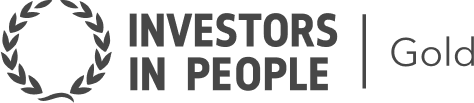
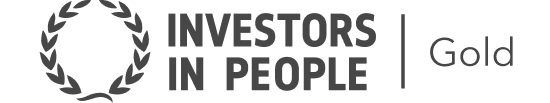
chore: top navigation added to partners nav, fixes in footer

diff --git a/src/features/components/templates/footer/description.tsx b/src/features/components/templates/footer/description.tsx
@@ -1,7 +1,9 @@
 import React from 'react'
-import { CustomLink } from '@deriv-com/components'
-import { Text, qtMerge } from '@deriv/quill-design'
+import { Text } from '@deriv/quill-design'
+import clsx from 'clsx'
 import { Localize } from 'components/localization'
+
+const sharedClasses = 'inline font-bold underline hover:text-typography-prominent'
 
 export const DescriptionContent = () => {
     return (
@@ -10,23 +12,20 @@ export const DescriptionContent = () => {
                 <Localize
                     translate_text="_t_Deriv (FX) Ltd is licensed by the Labuan Financial Services Authority <0>(licence)</0>. Deriv (BVI) Ltd is licensed by the British Virgin Islands Financial Services Commission <1>(licence)</1>. Deriv (V) Ltd is licensed by the Vanuatu Financial Services Commission <2>(licence)</2>. Deriv (SVG) LLC has a registered office at First Floor, SVG Teachers Credit Union Uptown Building, Corner of James and Middle Street, Kingstown P.O., St Vincent and the Grenadines. Deriv.com Limited is the holding company for the above subsidiaries with the registration number 71479 and the registered address is located at 2nd Floor, 1 Cornet Street, St Peter Port, Guernsey, GY1 1BZ._t_"
                     components={[
-                        <CustomLink
-                            size="sm"
-                            className={qtMerge('inline font-bold underline')}
+                        <a
+                            className={clsx(sharedClasses)}
                             href="/regulatory/Deriv_(FX)_Ltd.pdf"
                             key={0}
                             target="_blank"
                         />,
-                        <CustomLink
-                            size="sm"
-                            className={qtMerge('inline font-bold underline')}
+                        <a
+                            className={clsx(sharedClasses)}
                             href="/regulatory/Deriv_(BVI)_Ltd.pdf"
                             key={1}
                             target="_blank"
                         />,
-                        <CustomLink
-                            size="sm"
-                            className={qtMerge('inline font-bold underline')}
+                        <a
+                            className={clsx(sharedClasses)}
                             href="/regulatory/Deriv_(V)_Ltd.pdf"
                             key={2}
                             target="_blank"
@@ -38,25 +37,18 @@ export const DescriptionContent = () => {
                 <Localize
                     translate_text="_t_Please read our <0>Terms and conditions</0>, <1>Risk disclosure</1>, and <2>Secure and responsible trading</2> to fully understand the risks involved before using our services. The information on this website does not constitute investment advice._t_"
                     components={[
-                        <CustomLink
-                            size="sm"
-                            className={qtMerge('inline font-bold underline')}
+                        <a
+                            className={clsx(sharedClasses)}
                             href="/terms-and-conditions/#clients"
                             key={0}
                         />,
-                        <CustomLink
-                            size="sm"
-                            className={qtMerge('inline font-bold underline')}
+                        <a
+                            className={clsx(sharedClasses)}
                             href="/tnc/risk-disclosure.pdf"
                             key={1}
                             target="_blank"
                         />,
-                        <CustomLink
-                            size="sm"
-                            className={qtMerge('inline font-bold underline')}
-                            href="/responsible/"
-                            key={2}
-                        />,
+                        <a className={clsx(sharedClasses)} href="/responsible/" key={2} />,
                     ]}
                 />
             </Text>

diff --git a/src/features/components/templates/footer/download.tsx b/src/features/components/templates/footer/download.tsx
@@ -7,15 +7,20 @@ import {
 } from '@deriv/quill-icons/LabelPaired'
 import clsx from 'clsx'
 import { StaticImage } from 'gatsby-plugin-image'
+import { CustomLink } from '@deriv-com/components'
 import { localize } from 'components/localization'
 
 const sharedClasses =
-    'flex items-center justify-center gap-gap-md px-general-sm py-[6px] rounded-sm border-solid border-xs border-opacity-black-100'
+    'flex items-center justify-center gap-gap-md p-general-sm rounded-[4px] border-solid border-xs border-opacity-black-100'
 
 const DownloadBadges = () => {
     return (
         <div className="flex flex-col gap-gap-md max-lg:flex-1">
-            <div className={clsx(sharedClasses)}>
+            <CustomLink
+                href="https://play.google.com/store/apps/details?id=com.deriv.app"
+                target="_blank"
+                className={clsx(sharedClasses)}
+            >
                 <LabelPairedGooglePlayIcon iconSize="md" />
                 <StaticImage
                     src="../../../../images/common/migration/footer/get-googleplay.png"
@@ -24,8 +29,12 @@ const DownloadBadges = () => {
                     width={90}
                     placeholder="none"
                 />
-            </div>
-            <div className={clsx(sharedClasses)}>
+            </CustomLink>
+            <CustomLink
+                href="https://apps.apple.com/my/app/deriv-go-online-trading-app/id1550561298"
+                target="_blank"
+                className={clsx(sharedClasses)}
+            >
                 <LabelPairedAppleIcon iconSize="md" />
                 <StaticImage
                     src="../../../../images/common/migration/footer/download-appstore.png"
@@ -34,8 +43,12 @@ const DownloadBadges = () => {
                     width={90}
                     placeholder="none"
                 />
-            </div>
-            <div className={clsx(sharedClasses)}>
+            </CustomLink>
+            <CustomLink
+                href="https://appgallery.huawei.com/app/C103801913"
+                target="_blank"
+                className={clsx(sharedClasses)}
+            >
                 <LabelPairedHuaweiAppGalleryIcon iconSize="md" />
                 <StaticImage
                     src="../../../../images/common/migration/footer/explore-appgallery.png"
@@ -44,7 +57,7 @@ const DownloadBadges = () => {
                     width={90}
                     placeholder="none"
                 />
-            </div>
+            </CustomLink>
         </div>
     )
 }

diff --git a/src/features/components/templates/footer/banner-and-awards.tsx b/src/features/components/templates/footer/banner-and-awards.tsx
@@ -12,7 +12,7 @@ export const DerivGoBannerAndAwards = () => {
     return (
         <div className="flex flex-col gap-gap-lg">
             {is_row && (
-                <div className="flex lg:flex-col gap-gap-lg rounded-lg border-solid border-xs border-opacity-black-100 p-general-md">
+                <div className="flex lg:flex-col gap-gap-lg rounded-[16px] border-solid border-xs border-opacity-black-100 p-general-md">
                     <div className="flex flex-col gap-gap-md max-lg:flex-1 max-lg:justify-center">
                         <div className="flex flex-col gap-gap-md">
                             <div className="flex items-center gap-gap-md">
@@ -29,7 +29,7 @@ export const DerivGoBannerAndAwards = () => {
                             </Text>
                         </div>
 
-                        <div className="flex items-center gap-gap-md rounded-md border-solid border-[0.5px] border-opacity-black-200 p-general-sm max-sm:hidden">
+                        <div className="flex items-center gap-gap-md rounded-[8px] border-solid border-xs border-opacity-black-100 p-general-sm max-sm:hidden">
                             <StaticImage
                                 src="../../../../images/common/migration/footer/deriv-go-qr.png"
                                 alt={localize('_t_download deriv-go_t_')}
@@ -45,12 +45,12 @@ export const DerivGoBannerAndAwards = () => {
                     <DownloadBadges />
                 </div>
             )}
-            <div className="rounded-lg border-solid border-xs border-opacity-black-100 p-general-md">
+            <div className="rounded-[16px] border-solid border-xs border-opacity-black-100 py-general-md">
                 <div className="flex justify-center">
                     <StaticImage
                         src="../../../../images/common/migration/footer/investors-in-people.png"
                         alt={localize('_t_investors in people - gold_t_')}
-                        width={155}
+                        width={180}
                         placeholder="none"
                     />
                 </div>

diff --git a/src/features/components/templates/navigation/partners-nav/top-navigation.tsx b/src/features/components/templates/navigation/partners-nav/top-navigation.tsx
@@ -1,0 +1,26 @@
+import React from 'react'
+import { CustomLink } from '@deriv-com/components'
+
+export const TopNavigation = () => {
+    return (
+        <div className="flex gap-gap-xl py-general-sm">
+            <CustomLink href="/" className="text-body-sm text-solid-coral-700">
+                Deriv website
+            </CustomLink>
+            <CustomLink
+                href="/who-we-are"
+                className="text-body-sm hover:text-typography-prominent hover:no-underline"
+            >
+                Who we are
+            </CustomLink>
+            <CustomLink
+                href="/contact_us"
+                className="text-body-sm hover:text-typography-prominent hover:no-underline"
+            >
+                Contact us
+            </CustomLink>
+        </div>
+    )
+}
+
+export default TopNavigation

diff --git a/src/features/components/templates/navigation/partners-nav/index.tsx b/src/features/components/templates/navigation/partners-nav/index.tsx
@@ -3,6 +3,7 @@ import { NavigationBlock } from '@deriv-com/blocks'
 // eslint-disable-next-line import/no-unresolved
 import { SubBrandDerivPartnersBrandLightIcon } from '@deriv/quill-icons/Logo'
 import { CustomLink } from '@deriv-com/components'
+import TopNavigation from './top-navigation'
 import { partnersItems, partnersEUItems } from './data'
 import PartnersNavButtons from './nav.buttons'
 import useRegion from 'components/hooks/use-region'
@@ -13,6 +14,7 @@ const PartnersNav = () => {
     return (
         <NavigationBlock
             renderButtons={PartnersNavButtons}
+            topNavigation={TopNavigation}
             renderLogo={() => (
                 <CustomLink href={'/partners'}>
                     <SubBrandDerivPartnersBrandLightIcon width={144} height={24} />

diff --git a/src/features/components/templates/navigation/partners-nav/prime-nav.tsx b/src/features/components/templates/navigation/partners-nav/prime-nav.tsx
@@ -5,6 +5,7 @@ import { SubBrandDerivPrimeBrandLightIcon } from '@deriv/quill-icons/Logo'
 import { Button } from '@deriv/quill-design'
 import { CustomLink } from '@deriv-com/components'
 import { partnersEUItems, partnersItems } from './data'
+import TopNavigation from './top-navigation'
 import useRegion from 'components/hooks/use-region'
 import { Localize } from 'components/localization'
 import useScrollToElement from 'features/hooks/use-scroll-to-element'
@@ -38,6 +39,7 @@ const PrimeNav = () => {
     const { is_eu } = useRegion()
     return (
         <NavigationBlock
+            topNavigation={TopNavigation}
             renderButtons={PrimeNavButtons}
             renderLogo={() => (
                 <CustomLink href={'/partners'}>
